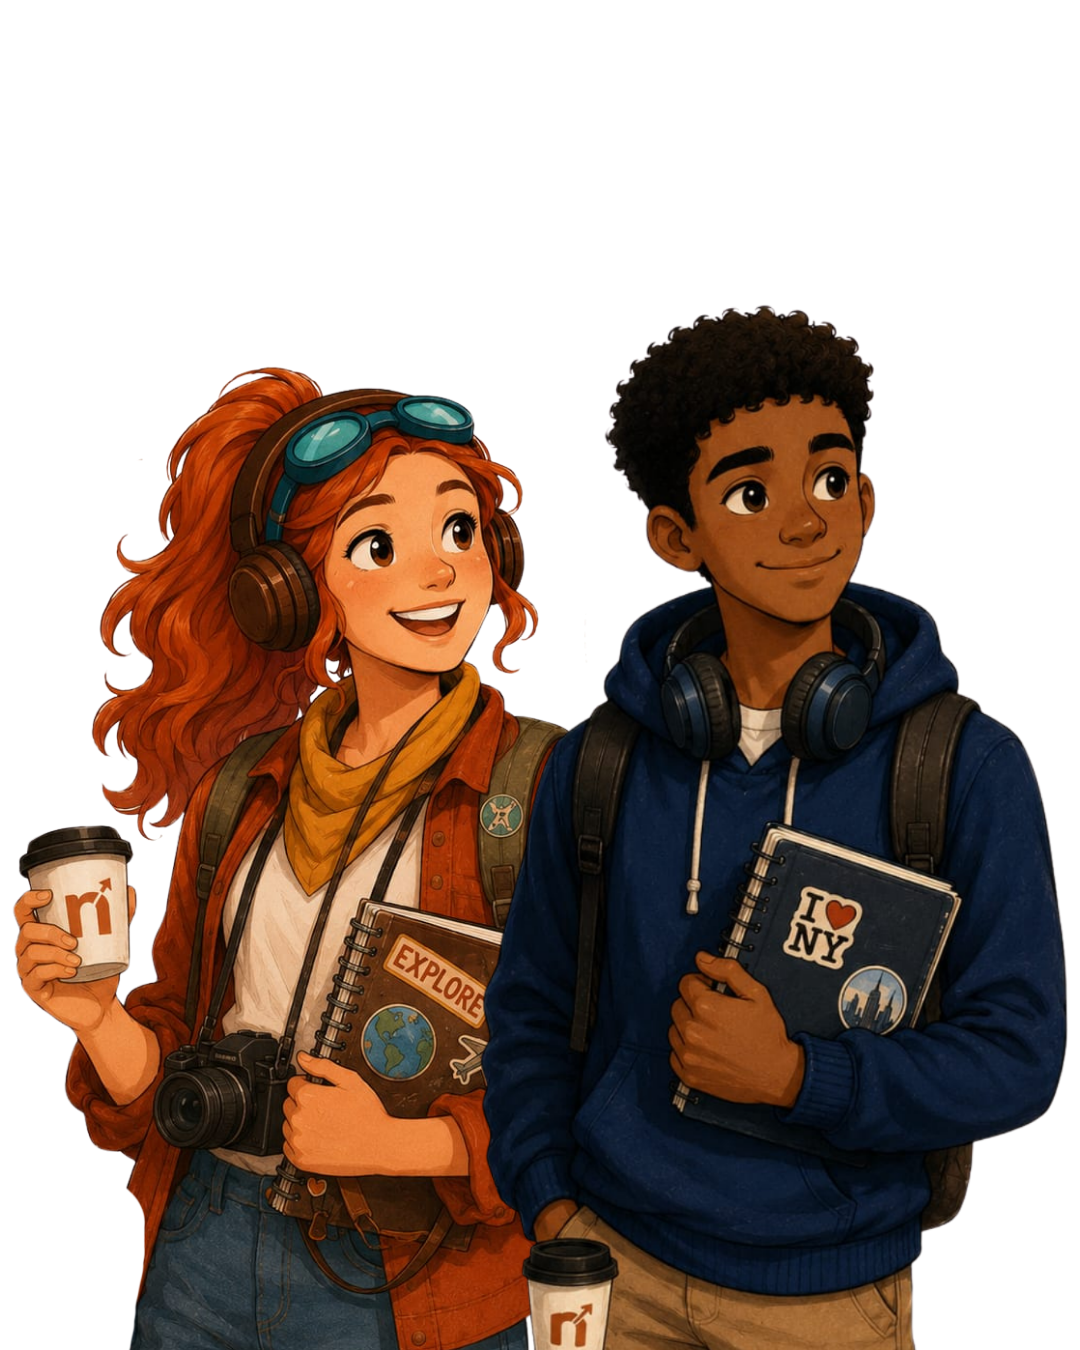
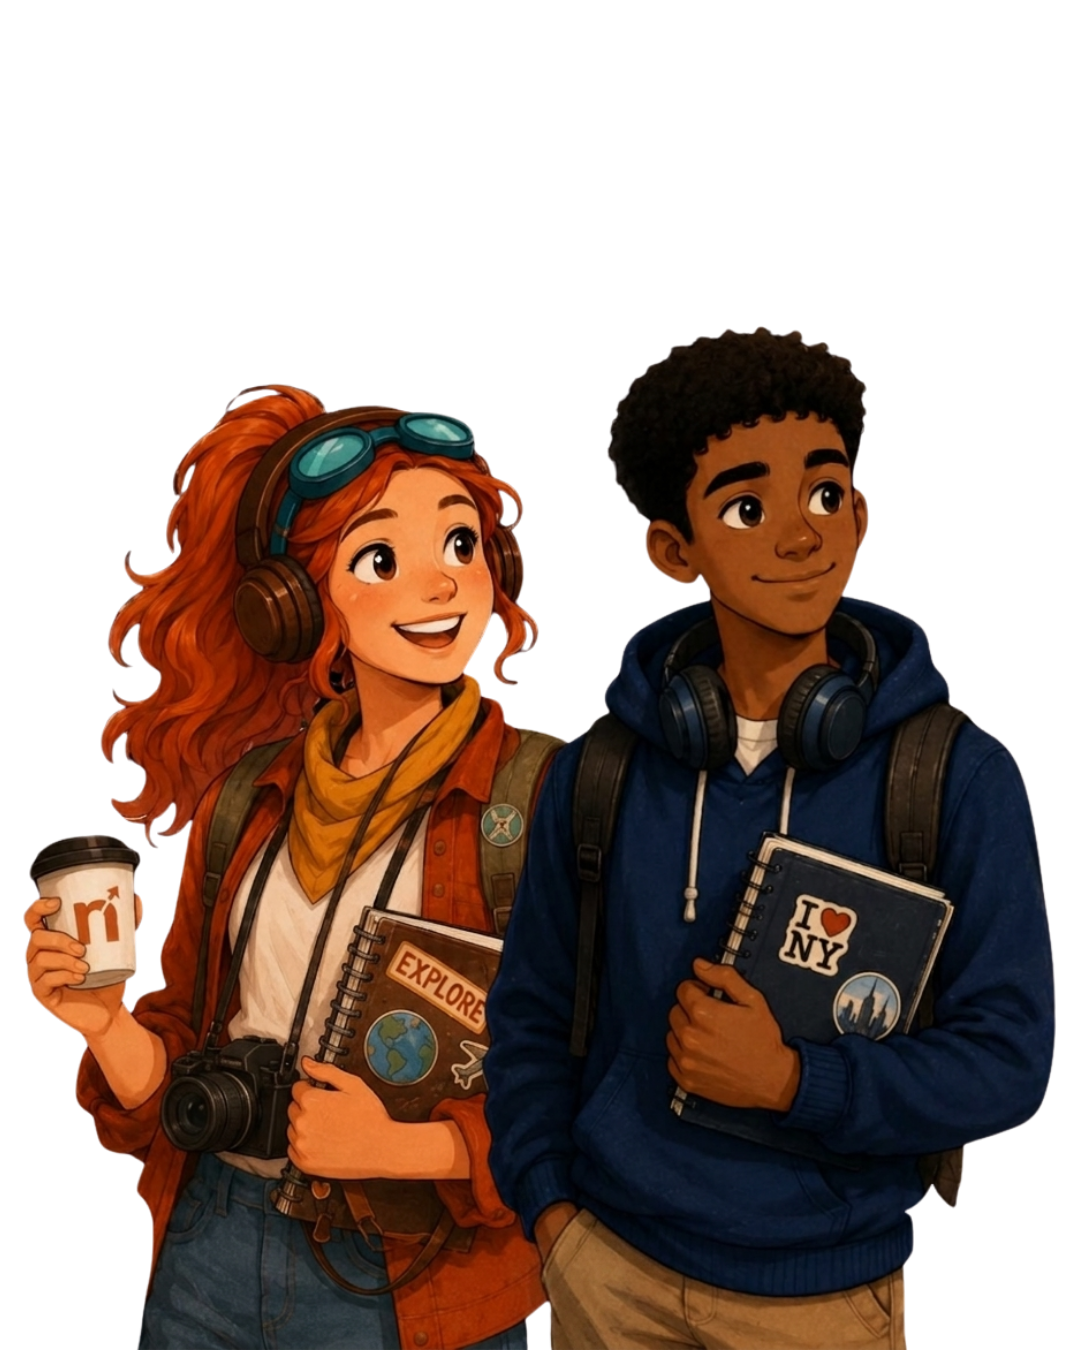
style

diff --git a/src/components/features/quiz/index.jsx b/src/components/features/quiz/index.jsx
@@ -57,7 +57,7 @@ export function LevelQuiz({ language, mascot, questions, accentClass = "text-pri
     return (
       <motion.div
         animate={{ opacity: 1, y: 0 }}
-        className="relative mx-auto w-full max-w-xl overflow-hidden rounded-[2rem] border border-border/60 bg-card p-8 text-center shadow-xl sm:p-12"
+        className="relative mx-auto w-full max-w-xl overflow-hidden rounded-[2rem] border border-primary/15 bg-background/80 p-8 text-center shadow-xl ring-1 ring-primary/10 backdrop-blur-xl sm:p-12"
         initial={{ opacity: 0, y: 20 }}
         transition={{ duration: 0.5 }}
       >
@@ -68,7 +68,7 @@ export function LevelQuiz({ language, mascot, questions, accentClass = "text-pri
 
         <img
           alt={mascot.alt}
-          className="relative mx-auto h-32 w-auto object-contain drop-shadow-xl"
+          className="relative mx-auto h-50 w-auto object-contain drop-shadow-xl"
           src={mascot.src}
         />
 
@@ -126,7 +126,7 @@ export function LevelQuiz({ language, mascot, questions, accentClass = "text-pri
       <AnimatePresence mode="wait">
         <motion.div
           animate={{ opacity: 1, x: 0 }}
-          className="rounded-[2rem] border border-border/60 bg-card p-8 shadow-lg sm:p-10"
+          className="rounded-[2rem] border border-primary/15 bg-background/80 p-8 shadow-lg ring-1 ring-primary/10 backdrop-blur-xl sm:p-10"
           exit={{ opacity: 0, x: -20 }}
           initial={{ opacity: 0, x: 20 }}
           key={currentIndex}
@@ -145,10 +145,10 @@ export function LevelQuiz({ language, mascot, questions, accentClass = "text-pri
                 <button
                   className={cn(
                     "flex items-center justify-between rounded-xl border px-5 py-3.5 text-left text-base transition-all duration-200",
-                    !answered && "border-border/60 hover:border-primary hover:bg-primary/5",
+                    !answered && "border-border/60 bg-background/40 hover:border-primary hover:bg-primary/5",
                     answered && isCorrect && "border-primary bg-primary/10 text-primary",
                     answered && isSelected && !isCorrect && "border-destructive bg-destructive/10 text-destructive",
-                    answered && !isSelected && !isCorrect && "border-border/40 opacity-50"
+                    answered && !isSelected && !isCorrect && "border-border/40 bg-background/20 opacity-50"
                   )}
                   disabled={answered}
                   key={option}

diff --git a/src/app/teste-de-nivel/espanhol/page.jsx b/src/app/teste-de-nivel/espanhol/page.jsx
@@ -24,7 +24,7 @@ export default function TesteDeNivelIngles() {
                 <LevelQuiz
                     accentClass="text-secondary"
                     language="Espanhol"
-                    mascot={{ src: "/mascote/lola.png", alt: "Mascote Lola" }}
+                    mascot={{ src: "/mascote/lola-feliz.png", alt: "Mascote Lola" }}
                     questions={spanishQuestions}
                 />
             </div>

diff --git a/src/app/teste-de-nivel/ingles/page.jsx b/src/app/teste-de-nivel/ingles/page.jsx
@@ -27,7 +27,7 @@ export default function TesteDeNivelIngles() {
                 <LevelQuiz
                     accentClass="text-primary"
                     language="Inglês"
-                    mascot={{ src: "/mascote/john.png", alt: "Mascote John" }}
+                    mascot={{ src: "/mascote/john-feliz.png", alt: "Mascote John" }}
                     questions={englishQuestions}
                 />
 